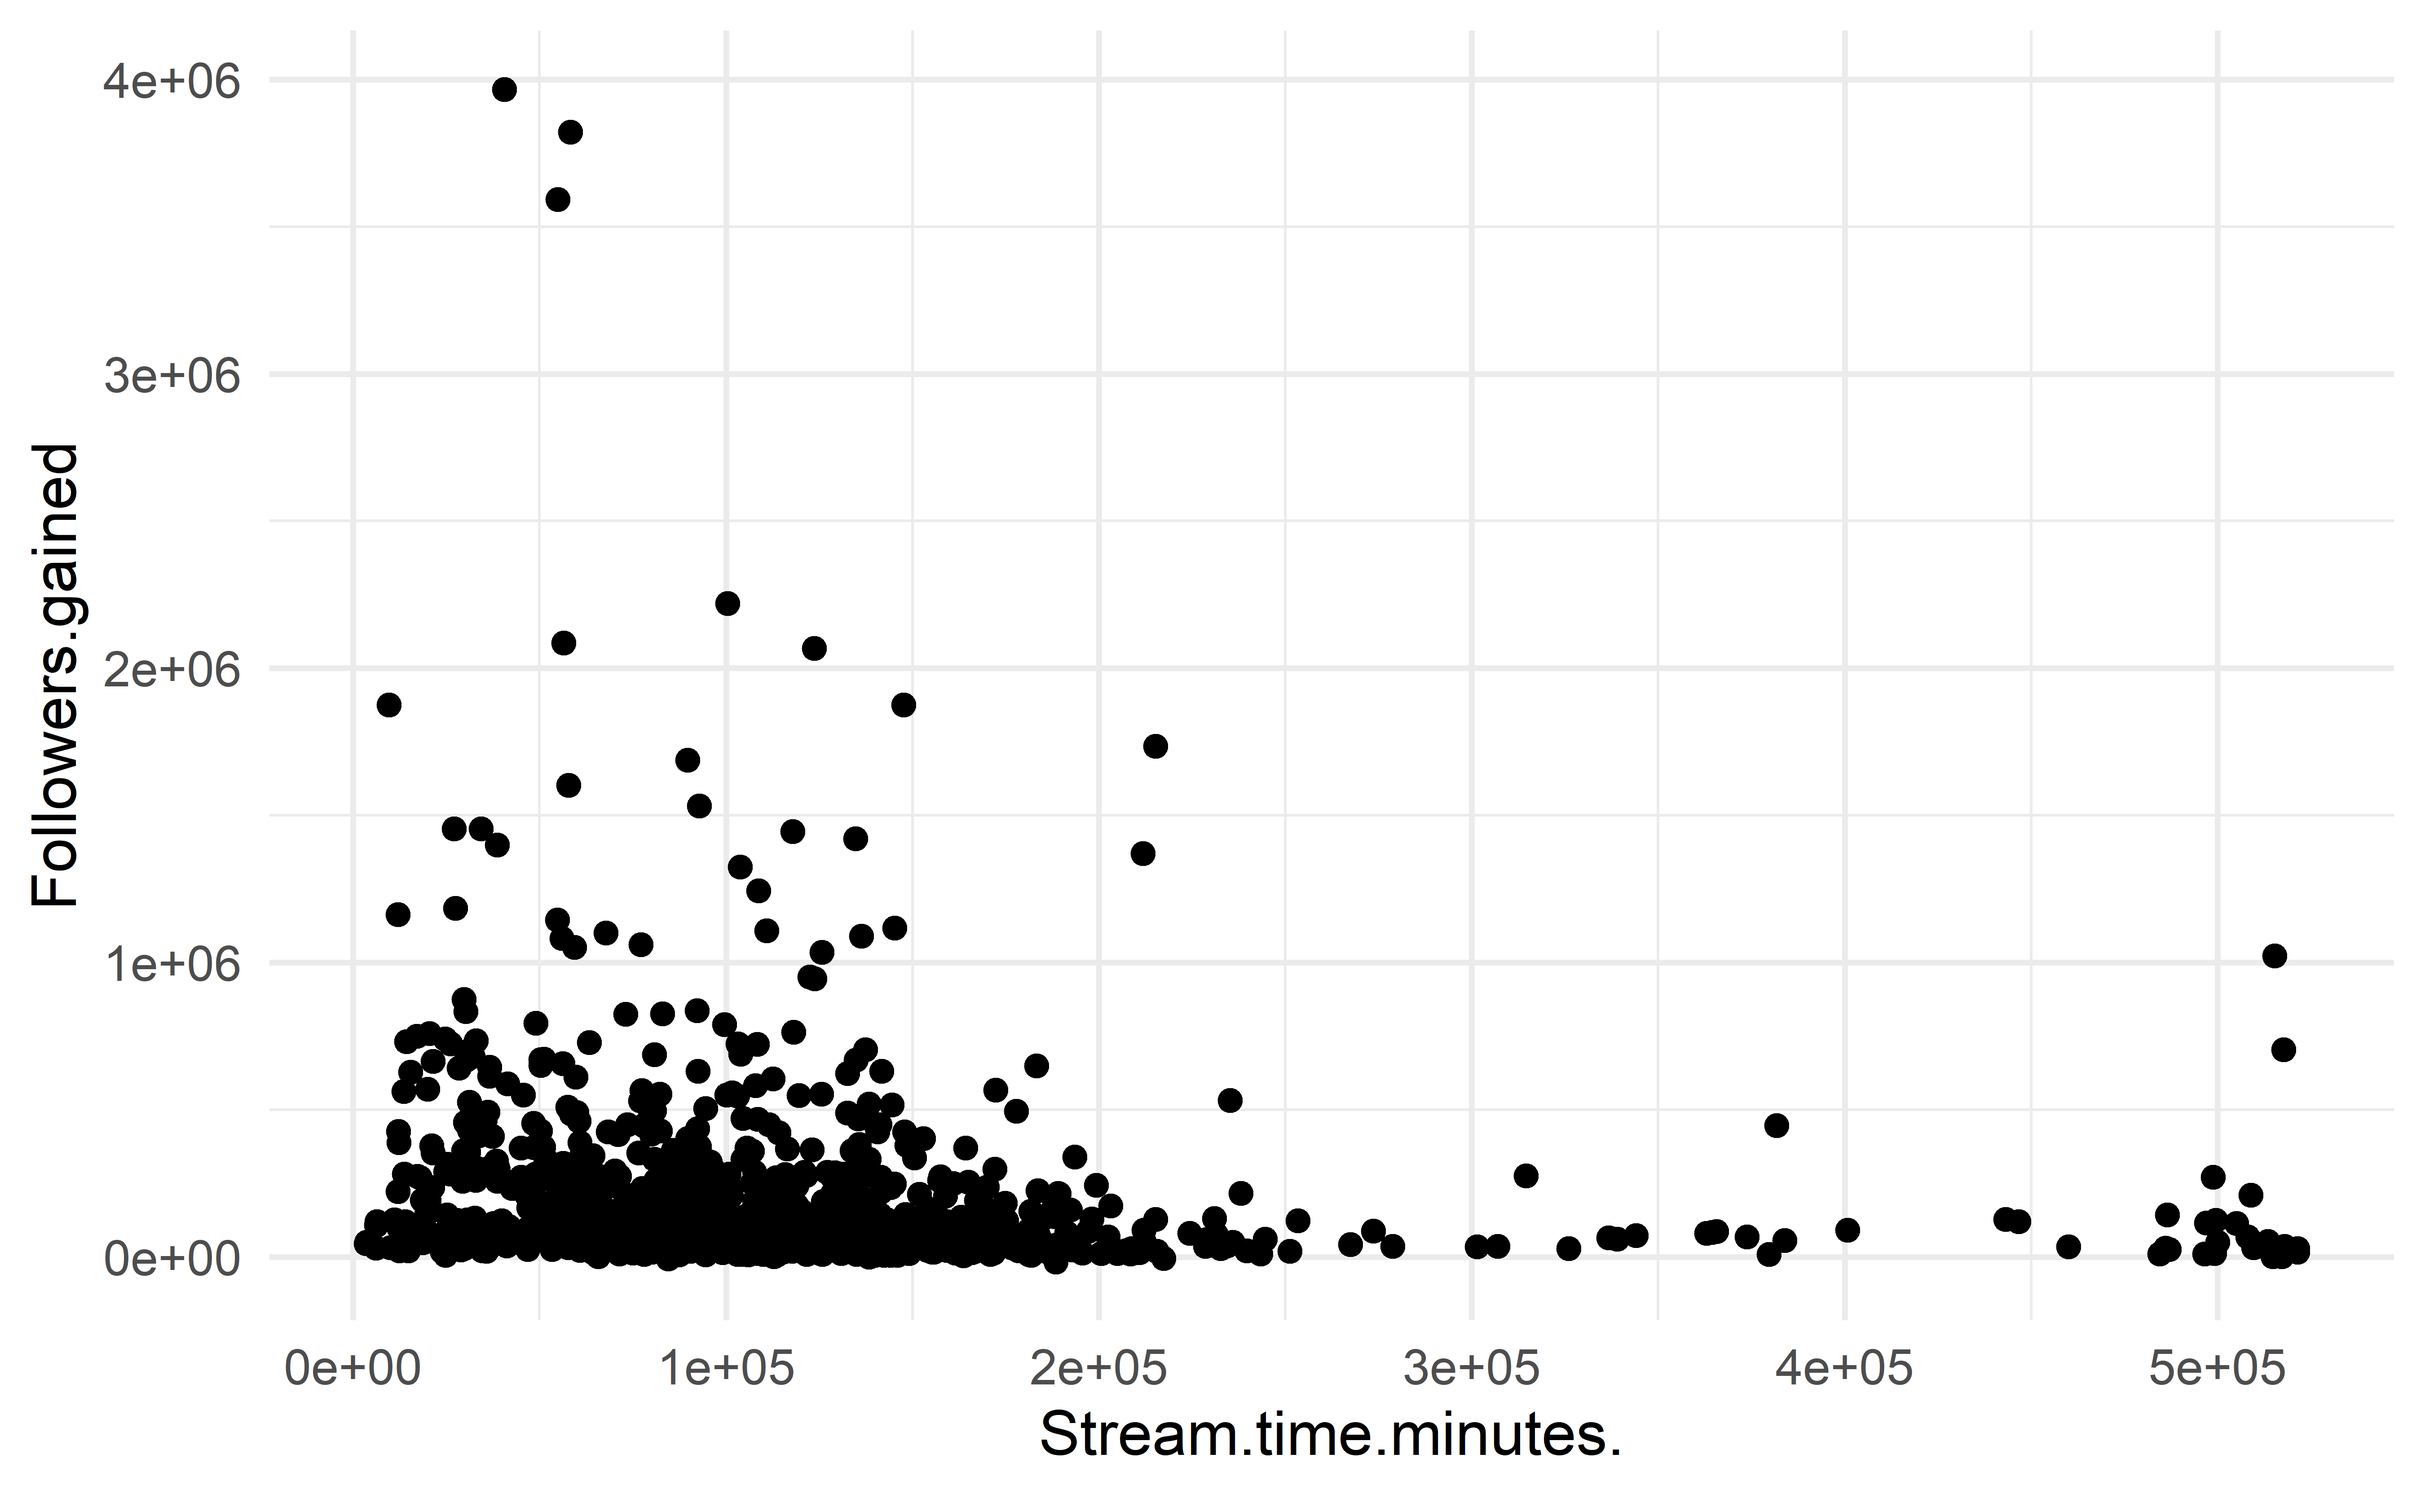
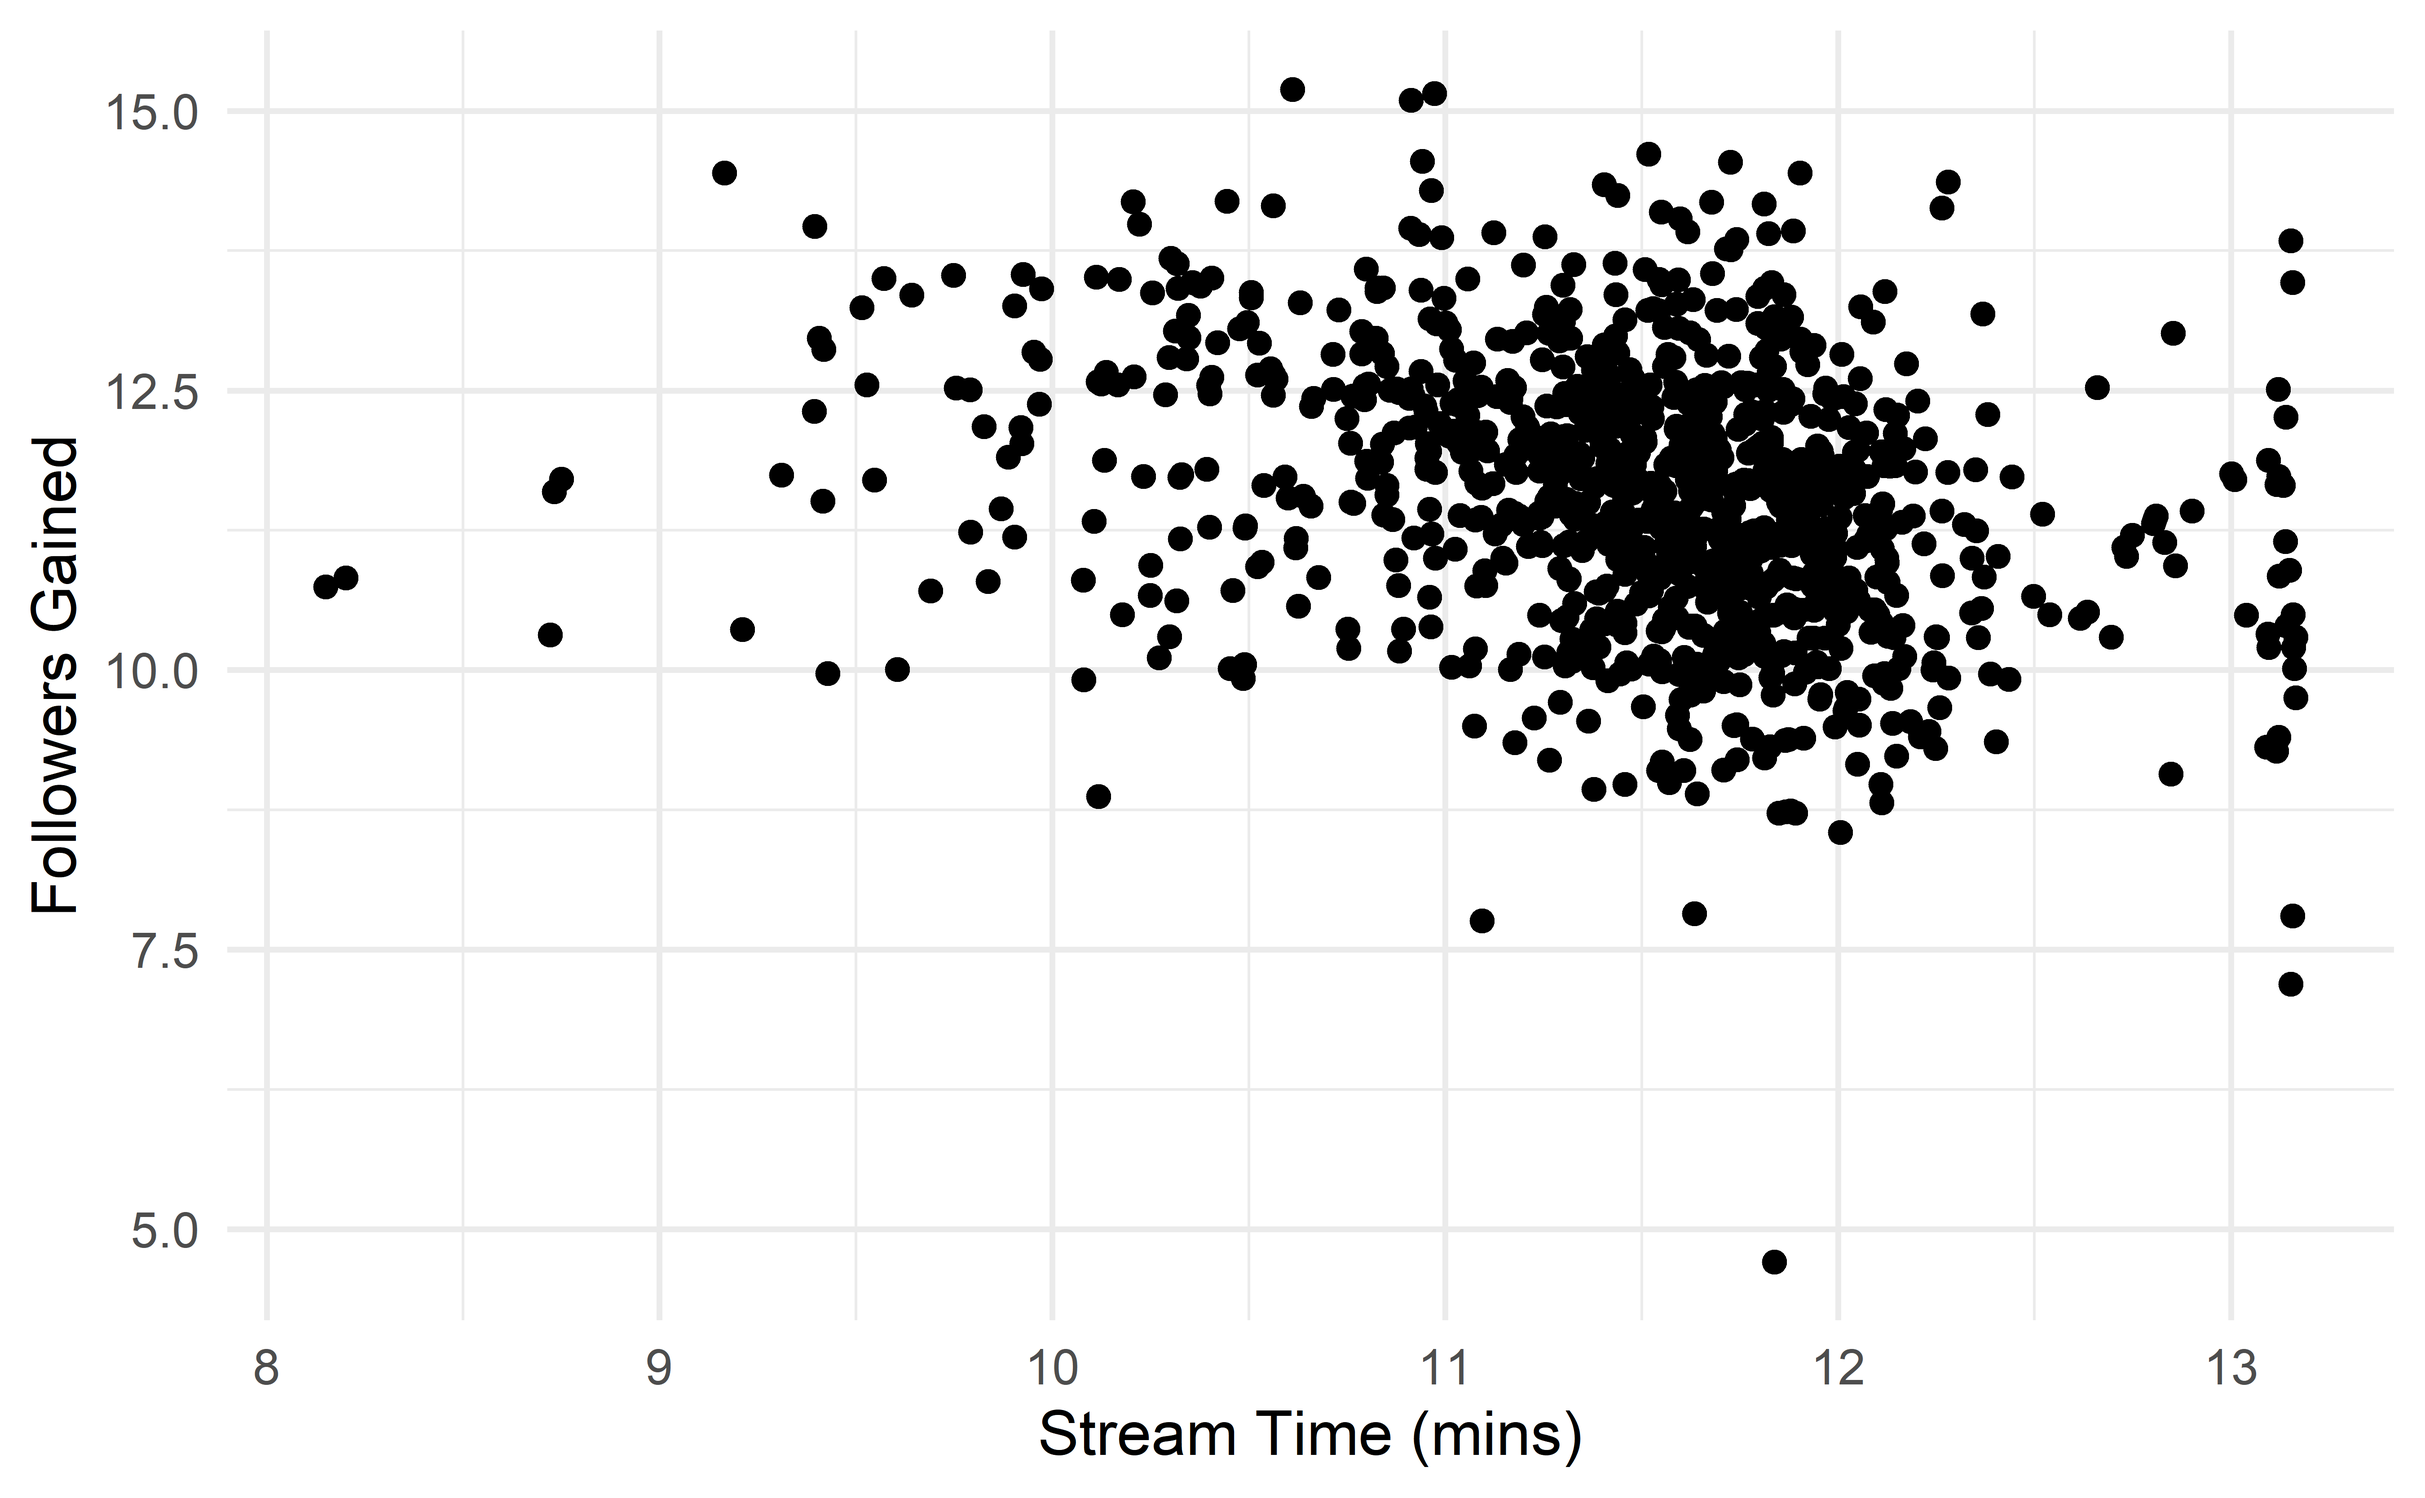
Added logarithmic scatter graph

diff --git a/presentation.html b/presentation.html
@@ -1,11 +1,7 @@
 <!DOCTYPE html>
 <html lang="" xml:lang="">
   <head>
-<<<<<<< HEAD
-    <title>Twitch Streamers</title>
-=======
     <title>Twitch Streamer Presentation</title>
->>>>>>> 1d8cfe358b2674cf0bc0c6ef6f3b2f635428d009
     <meta charset="utf-8" />
     <meta name="author" content="CARLS   Craig, Adi, Ronan, Lauren, and Sophia" />
     <meta name="date" content="2022-10-27" />
@@ -17,14 +13,7 @@
 class: center, middle, inverse, title-slide
 
 .title[
-<<<<<<< HEAD
-# Twitch Streamers
-]
-.subtitle[
-## Presentation subtitle (if any)
-=======
 # Twitch Streamer Presentation
->>>>>>> 1d8cfe358b2674cf0bc0c6ef6f3b2f635428d009
 ]
 .author[
 ### CARLS <br> Craig, Adi, Ronan, Lauren, and Sophia
@@ -61,37 +50,12 @@ class: inverse, center, middle
 
 # Research Question and Data
 
-<<<<<<< HEAD
-- How stream time affects followers gained and watch time (over the duration of a year)
-
-- Awesome public data sets from kaggle.com
-=======
 - How does stream time affect watch time and followers gained?
 
 - This data was found through Awesome Public Datasets and was downloaded from Kaggle.com .
->>>>>>> 38105672ac2b8da222c4cf80fb4cf84595080e06
 
-&lt;&lt;&lt;&lt;&lt;&lt;&lt; HEAD
-
-```r
-nrow(twitchdata)
-```
-
-```
-## [1] 1000
-```
-
-```r
-ncol(twitchdata)
-```
-
-```
-## [1] 11
-```
-
-=======
 - There are 1000 different entries and 11 different variables.
-&gt;&gt;&gt;&gt;&gt;&gt;&gt; fcaf017a80cb8f64df160910a6f887c3adc527ed
+
 
 ---
 
@@ -155,6 +119,17 @@ print(ave)
 
 
 
+
+```
+## Warning in log(Followers.gained): NaNs produced
+
+## Warning in log(Followers.gained): NaNs produced
+```
+
+```
+## Warning: Removed 3 rows containing missing values (geom_point).
+```
+
 &lt;img src="presentation_files/figure-html/plot-iris-1.png" width="80%" /&gt;
 
 ---
@@ -166,7 +141,7 @@ print(ave)
 - goes here
 ]
 .pull-right[
-&lt;img src="presentation_files/figure-html/unnamed-chunk-3-1.png" width="100%" /&gt;
+&lt;img src="presentation_files/figure-html/unnamed-chunk-2-1.png" width="100%" /&gt;
 ]
 
 ---
